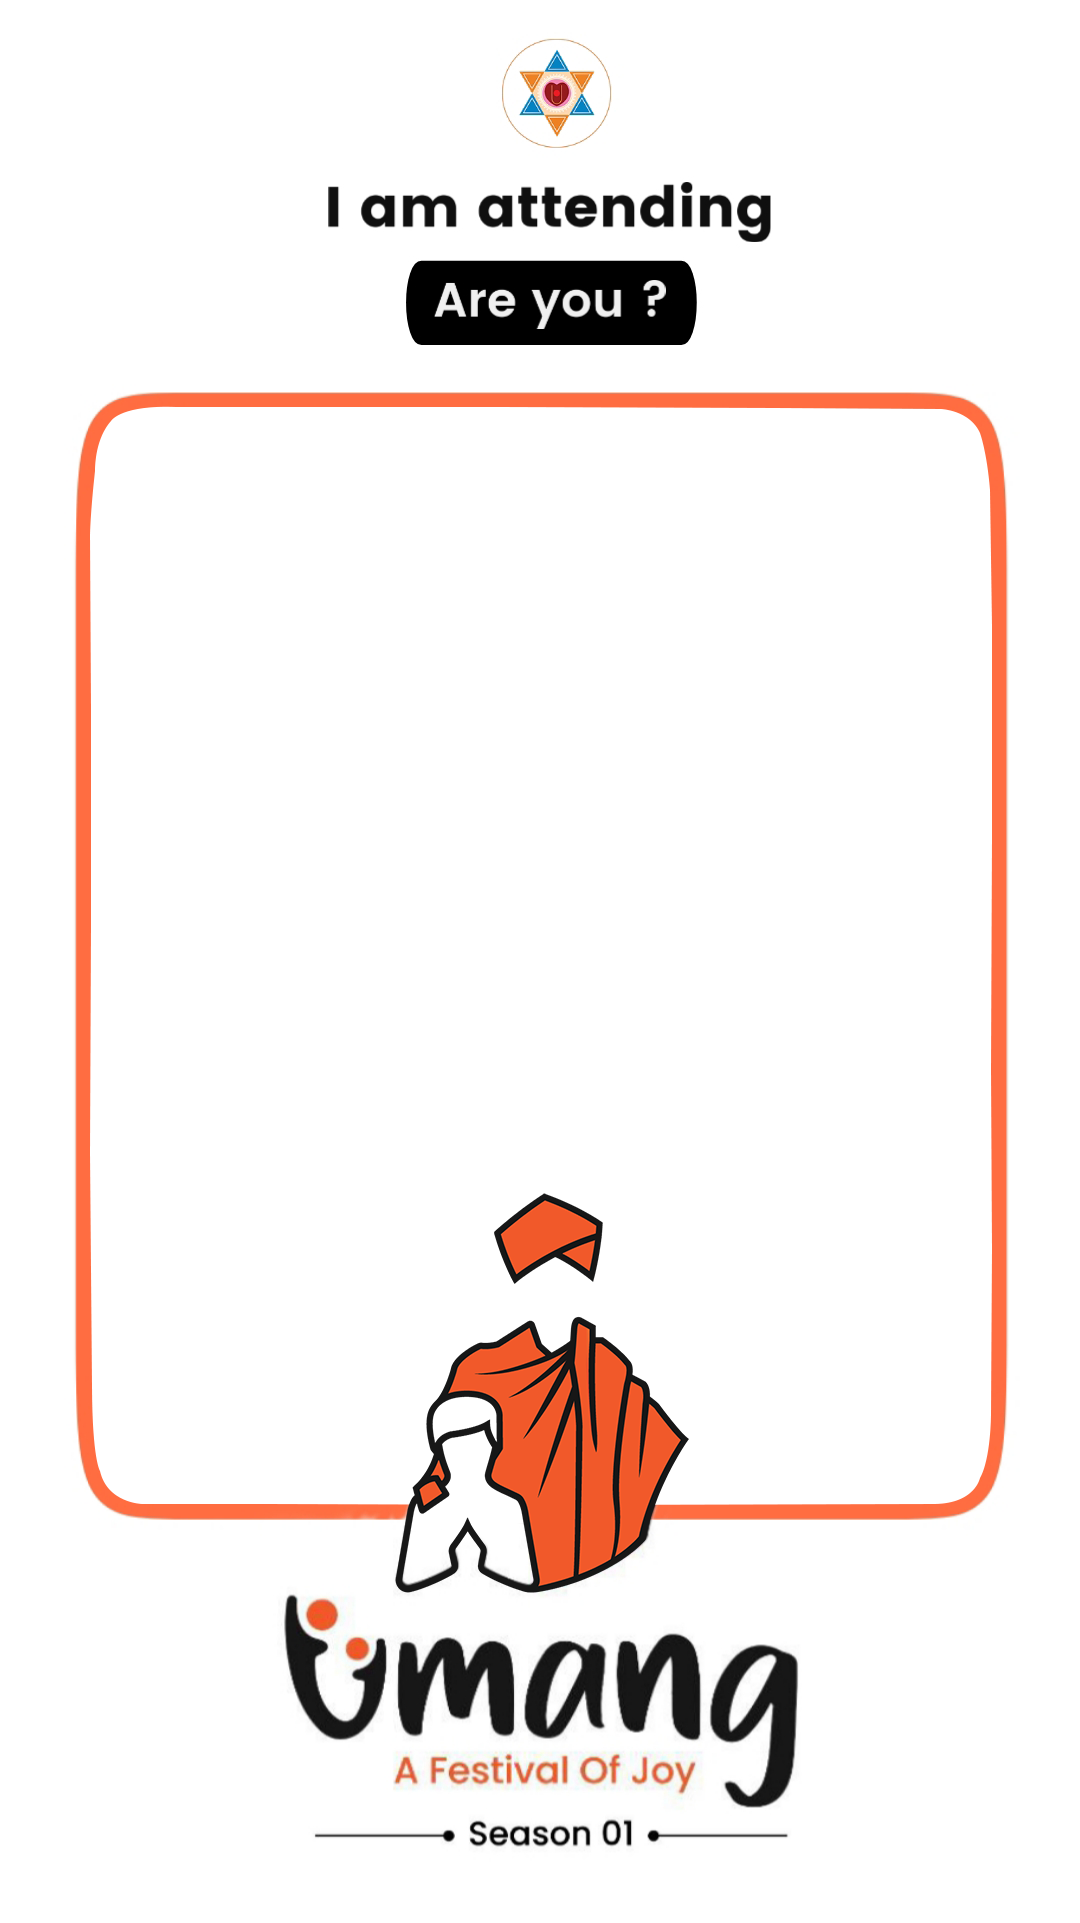
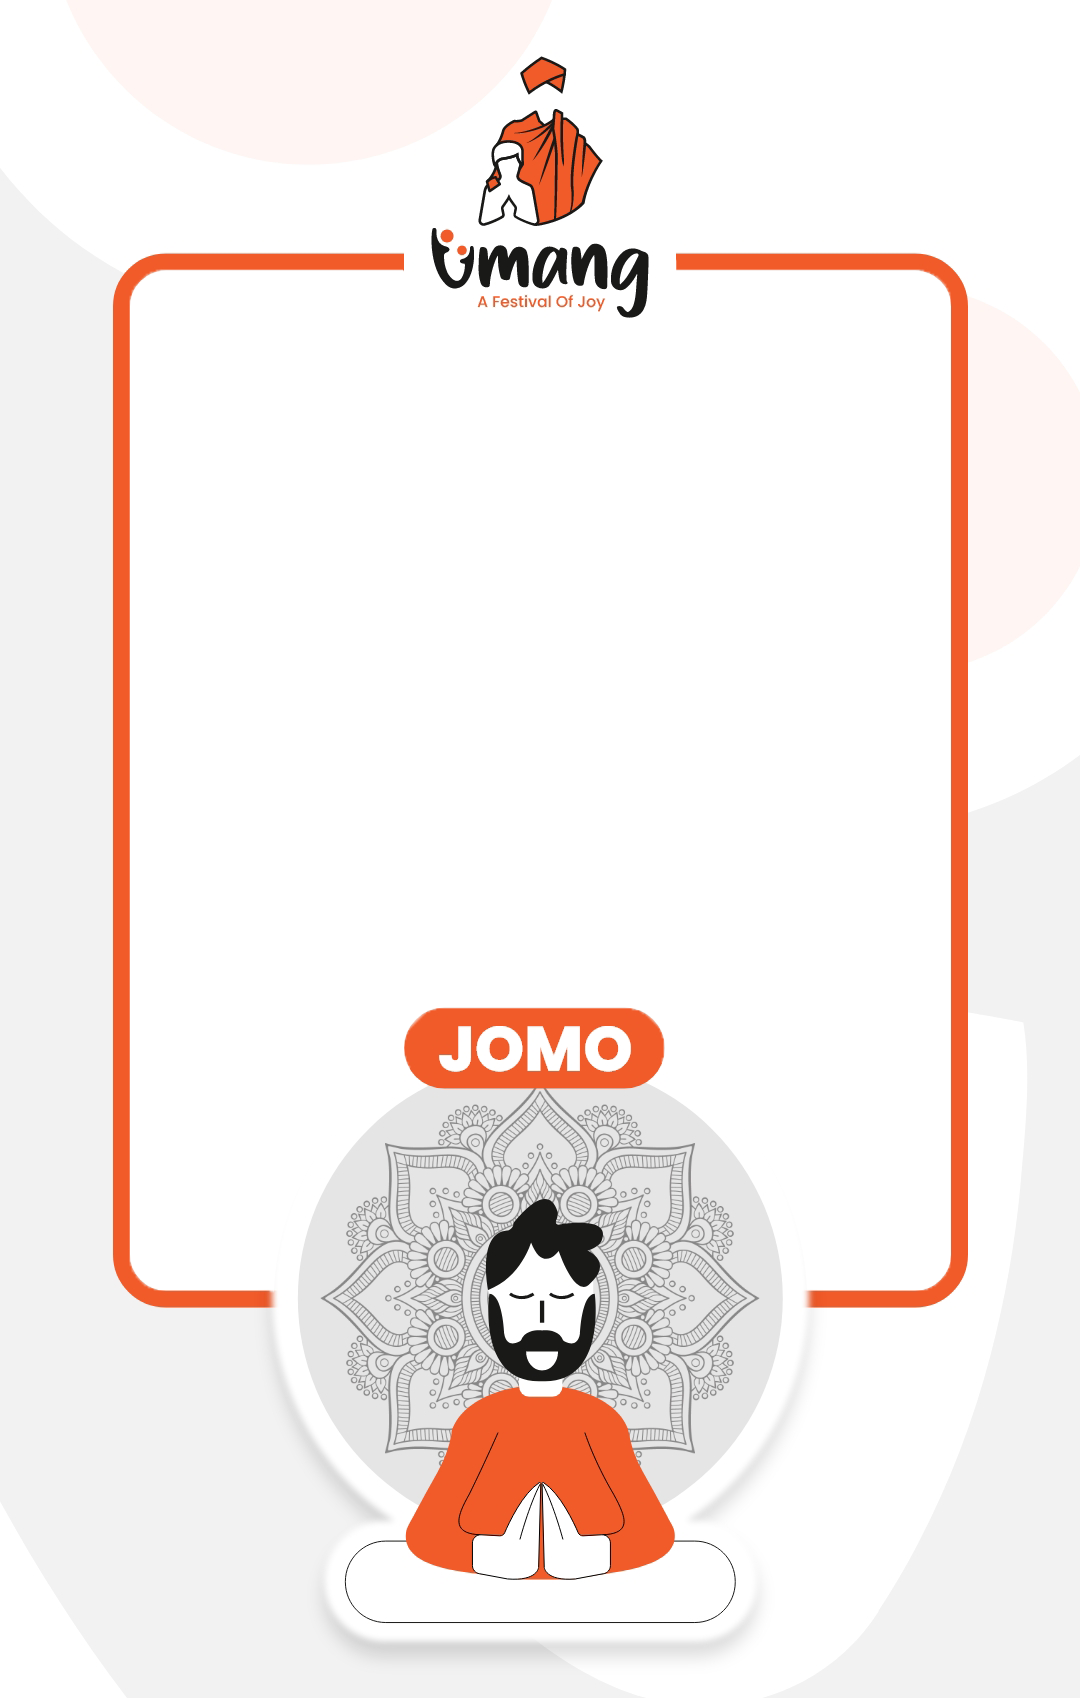
layout change

Changed region(s): [[0.0611, 0.0312, 0.9472, 0.9988]]

diff --git a/layout2.html b/layout2.html
@@ -5,7 +5,7 @@
     <meta charset="UTF-8">
     <meta http-equiv="X-UA-Compatible" content="IE=edge">
     <meta name="viewport" content="width=device-width, initial-scale=1.0">
-    <title>Umang - Festival of joy (Season - 01)</title>
+    <title>AYS 21</title>
 
     <!-- Stylesheets -->
     <link href="https://fonts.googleapis.com/css2?family=Work+Sans:wght@300;400;500;600;700;800&display=swap"
@@ -30,14 +30,14 @@
 
             <div class="mockup-box">
                 <div class="mockup-left">
-                    <h2>Umang - Festival of joy (Season - 01)</h2>
+                    <h2>AYS Frame</h2>
                     <ul class="breadcrum">
                         <li><a>Home</a> <span>&#9658;</span></li>
-                        <li>Umang - Festival of joy (Season - 01)</li>
+                        <li>AYS Frame</li>
                     </ul>
                     <div class="mockup-holder" id="capture">
-                        <img class="mainFrame" src="img/full1.png" alt="">
-                        <div class="abs-div abs-div1">
+                        <img class="mainFrame" src="img/full2.png" alt="">
+                        <div class="abs-div abs-div2">
                             <img class="cropped" src="img/placeholder2.png" alt="Image" />
                         </div>
                     </div>
@@ -46,8 +46,8 @@
 
                     <h3>Select Layout (Individual)</h3>
                     <ul class="layout-box">
-                        <li class="active"><a href="index.html"><img src="./img/layout2.png" alt="Layout 1"></a></li>
-                        <li><a href="layout2.html"><img src="./img/layout1.png" alt="Layout 2"></a>
+                        <li><a href="index.html"><img src="./img/layout2.png" alt="Layout 1"></a></li>
+                        <li class="active"><a href="layout2.html"><img src="./img/layout1.png" alt="Layout 2"></a>
                         </li>
                     </ul>
 
@@ -55,9 +55,8 @@
                     <ul class="layout-box">
                         <li><a href="attand1.html"><img src="./img/layout1.png" alt="Layout 1"></a></li>
                         <li><a href="attand2.html"><img src="./img/layout2.png" alt="Layout 2"></a></li>
-                    </ul> -->
-
-                    <h3>Your Image <span>350 X 410</span></h3>
+                    </ul>
+                    <h3>Your Image <span>500 X 365</span></h3> -->
 
                     <button type="button" class="uploadImg button" data-toggle="modal" data-target="#crop-modal"
                         data-backdrop="static" data-keyboard="false">
@@ -118,18 +117,9 @@
     <script src="js/jquery-cropper.js"></script>
     <script>
         var aspX = 390,
-            aspY = 476.37;
+            aspY = 471.96;
     </script>
     <script src="js/main.js"></script>
-    <!-- Global site tag (gtag.js) - Google Analytics -->
-    <script async src="https://www.googletagmanager.com/gtag/js?id=UA-161453786-1"></script>
-    <script>
-        window.dataLayer = window.dataLayer || [];
-        function gtag() { dataLayer.push(arguments); }
-        gtag('js', new Date());
-
-        gtag('config', 'UA-161453786-1');
-    </script>
 
 </body>
 

diff --git a/css/style.css b/css/style.css
@@ -494,10 +494,10 @@ header.fixHeader .header {
 }
 
 .abs-div1 {
-    left: 8%;
-    top: 21%;
-    width: 84%;
-    height: 57.6%;
+    left: 11%;
+    top: 16%;
+    width: 78%;
+    height: 60.6%;
 }
 
 .abs-div1-attand1 {
@@ -508,10 +508,10 @@ header.fixHeader .header {
 }
 
 .abs-div2 {
-    left: 0;
-    top: 0;
-    width: 100%;
-    height: 73%;
+    left: 11%;
+    top: 16%;
+    width: 78%;
+    height: 60%;
 }
 
 .mainFrame {
